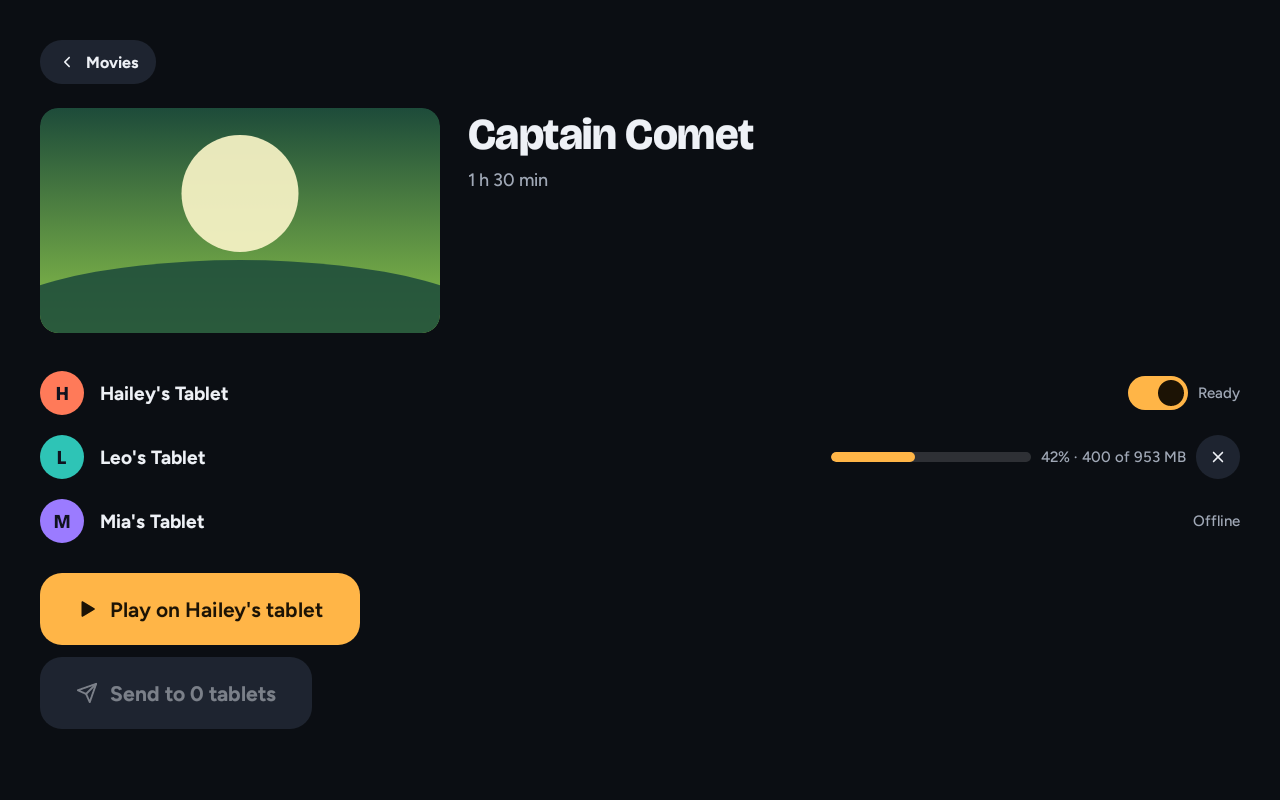
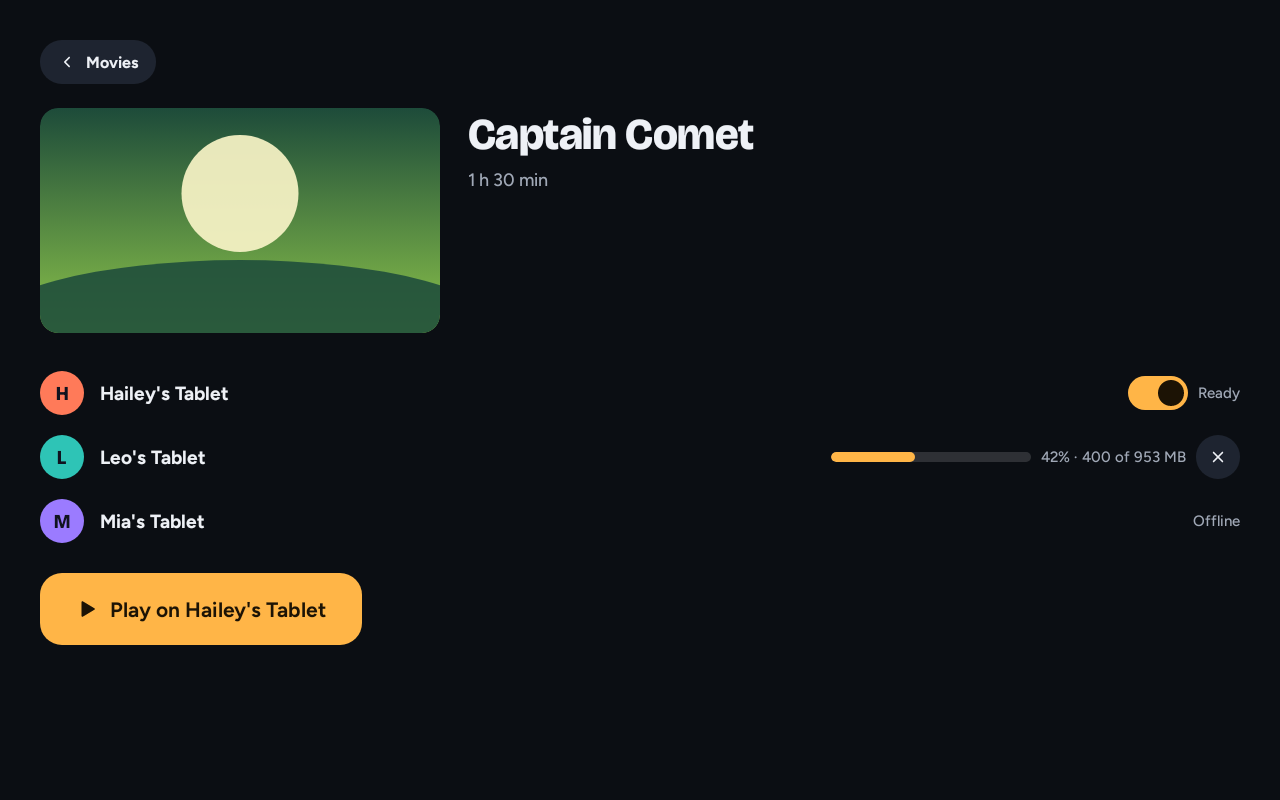
ui copy pass: drop dashes, hide dead send button, settings order, plain Jellyfin label

Changed region(s): [[0.0312, 0.8125, 0.25, 0.9375], [0.1875, 0.75, 0.25, 0.7812]]

diff --git a/app/src/main/java/com/nbaltas/nickos/ui/master/Together.kt b/app/src/main/java/com/nbaltas/nickos/ui/master/Together.kt
@@ -186,7 +186,7 @@ fun TogetherScreen(onBack: () -> Unit, onSettings: (Int) -> Unit, initialSegment
                 val label = TogetherText.chip(n.online, capable, n.node.id in scanning, true, Library.ownedBy(library, n.node.id).size, transfer.downloading(n.node.id))
                 Chip(Modifier.clickable {
                     when (label) {
-                        "Update needed" -> onSettings(4)
+                        "Update needed" -> onSettings(5)
                         "No video access" -> master.say("On ${n.node.name}, hold the avatar, enter the PIN, then tap Allow videos")
                         else -> {}
                     }
@@ -217,7 +217,7 @@ fun TogetherScreen(onBack: () -> Unit, onSettings: (Int) -> Unit, initialSegment
                 NickButton("All tablets", onBack, style = BtnStyle.GHOST, big = true)
             }
             onlineNodes.isNotEmpty() && capableOnline.isEmpty() -> CenterMessage("Update the kids' tablets", "Watch together needs the latest NickOS on each tablet. Update them from Settings, then come back.") {
-                NickButton("Open Settings", { onSettings(4) }, style = BtnStyle.PRIMARY, big = true)
+                NickButton("Open Settings", { onSettings(5) }, style = BtnStyle.PRIMARY, big = true)
             }
             else -> {
                 val visible = if (segment == 0) Library.movies(library) else null
@@ -228,7 +228,7 @@ fun TogetherScreen(onBack: () -> Unit, onSettings: (Int) -> Unit, initialSegment
                         segment == 0 && visible!!.isEmpty() && scanningCount == 0 -> CenterMessage("No movies yet", "Copy MP4 or MKV files into the Movies or Download folder on this tablet or any kid's tablet. From here you can send a movie to the other tablets and play it on all of them at once.") {
                             NickButton("Look again", { sync.rescan() }, style = BtnStyle.PRIMARY, big = true, leading = Lucide.RefreshCw)
                         }
-                        segment == 1 && openShow == null && shows.isEmpty() && scanningCount == 0 -> CenterMessage("No movies yet", "Copy MP4 or MKV files into the Movies or Download folder on this tablet or any kid's tablet. From here you can send a movie to the other tablets and play it on all of them at once.") {
+                        segment == 1 && openShow == null && shows.isEmpty() && scanningCount == 0 -> CenterMessage("No shows yet", "Copy episodes into a folder named after the show, inside Movies or Download on this tablet, or send them from another tablet.") {
                             NickButton("Look again", { sync.rescan() }, style = BtnStyle.PRIMARY, big = true, leading = Lucide.RefreshCw)
                         }
                         segment == 0 -> LibraryGrid(visible!!, thumbs, nodes, order, expected, name, transfer) { openItem = it.fid }
@@ -365,11 +365,11 @@ internal fun PickPanel(
         }
         Spacer(Modifier.height(20.dp))
         val k = selected.size
-        val playLabel = if (k == 1) "Play on ${sync.kid(selected.first())}'s tablet" else "Play on $k tablets"
+        val playLabel = if (k == 1) "Play on ${nodes.firstOrNull { it.node.id == selected.first() }?.node?.name ?: sync.kid(selected.first())}" else "Play on $k tablets"
         NickButton(playLabel, { sync.start(item.fid, item.title, item.durMs, selected) }, style = BtnStyle.PRIMARY, big = true, leading = Solid.Play, enabled = k > 0)
         Spacer(Modifier.height(12.dp))
         val j = lacking.size
-        NickButton("Send to $j tablets", { transfer.send(item.fid, lacking) }, style = BtnStyle.SECONDARY, big = true, leading = Lucide.Send, enabled = j > 0 && sendBlocked == null)
+        if (j > 0) NickButton("Send to $j tablet${if (j == 1) "" else "s"}", { transfer.send(item.fid, lacking) }, style = BtnStyle.SECONDARY, big = true, leading = Lucide.Send, enabled = sendBlocked == null)
     }
 }
 

diff --git a/app/src/main/java/com/nbaltas/nickos/ui/master/MasterApp.kt b/app/src/main/java/com/nbaltas/nickos/ui/master/MasterApp.kt
@@ -138,7 +138,7 @@ fun MasterApp() {
                 onAdd = { screen = MScreen.AddTablet },
                 onSettings = { screen = MScreen.Settings() },
                 onDrawer = { screen = MScreen.Drawer },
-                onUpdate = { screen = MScreen.Settings(4) },
+                onUpdate = { screen = MScreen.Settings(5) },
                 onCameras = { screen = MScreen.Cameras },
                 onTogether = { screen = MScreen.Together },
             )
@@ -295,7 +295,7 @@ private fun EmptyHome(onAdd: () -> Unit) {
             }
         }
         Title("No tablets linked yet", 48, Modifier.padding(top = 12.dp), lineHeight = 1.05f)
-        Muted("Set up the kid's tablet as a Node. It will show a 6-digit code — enter it here.", 21, Modifier.widthIn(max = 600.dp))
+        Muted("Set up the kid's tablet as a Node. It will show a 6-digit code. Enter it here.", 21, Modifier.widthIn(max = 600.dp))
         NickButton("Add tablet", onAdd, Modifier.padding(top = 8.dp), BtnStyle.PRIMARY, big = true, leading = Lucide.Plus)
     }
 }
@@ -355,7 +355,7 @@ private fun NodeCard(v: NodeView, poster: ((JfItem) -> String?)?, modifier: Modi
                 }
                 Column(Modifier.weight(1f), verticalArrangement = Arrangement.spacedBy(8.dp)) {
                     Title("Can't reach this tablet", 28, lineHeight = 1.1f)
-                    Muted("Check it's switched on and on the same WiFi. Reset it? Tap to unlink.", 18)
+                    Muted("Check it's switched on and on the same WiFi. Reset it? Unlink it from the Device tab.", 18)
                 }
             }
             pb != null && item != null -> Row(horizontalArrangement = Arrangement.spacedBy(22.dp)) {
@@ -465,9 +465,9 @@ fun fmtTicks(t: Long): String {
     return if (s >= 3600) "%d:%02d:%02d".format(s / 3600, (s / 60) % 60, s % 60) else "%d:%02d".format(s / 60, s % 60)
 }
 
-/** "S2 · E5 — The Lighthouse" for episodes, year for movies. */
+/** "S2 · E5 · The Lighthouse" for episodes, year for movies. */
 fun episodeLine(i: JfItem): String = when {
-    i.isEpisode && i.season != null && i.index != null -> "S${i.season} · E${i.index} — ${i.name}"
+    i.isEpisode && i.season != null && i.index != null -> "S${i.season} · E${i.index} · ${i.name}"
     i.isEpisode -> i.name
     else -> listOfNotNull(i.year?.toString(), i.rating).joinToString(" · ").ifEmpty { "Movie" }
 }

diff --git a/app/src/main/java/com/nbaltas/nickos/ui/master/Settings.kt b/app/src/main/java/com/nbaltas/nickos/ui/master/Settings.kt
@@ -86,8 +86,8 @@ import com.nbaltas.nickos.ui.theme.disp
 import com.nbaltas.nickos.ui.theme.tap
 
 private val sections = listOf<Pair<String, ImageVector>>(
-    "Linked tablets" to Lucide.Tablet, "Jellyfin (legacy)" to Lucide.Server, "Parent PIN" to Lucide.KeyRound,
-    "Theme" to Lucide.Contrast, "About" to Lucide.Info, "Cameras" to Lucide.Camera,
+    "Linked tablets" to Lucide.Tablet, "Jellyfin" to Lucide.Server, "Cameras" to Lucide.Camera,
+    "Parent PIN" to Lucide.KeyRound, "Theme" to Lucide.Contrast, "About" to Lucide.Info,
 )
 
 @Composable
@@ -118,9 +118,9 @@ fun SettingsScreen(section: Int, onSection: (Int) -> Unit, onBack: () -> Unit, o
                 when (section) {
                     0 -> TabletsSection(onAdd)
                     1 -> JellyfinSection()
-                    2 -> PinSection()
-                    3 -> ThemeSection()
-                    5 -> CamerasSection()
+                    2 -> CamerasSection()
+                    3 -> PinSection()
+                    4 -> ThemeSection()
                     else -> AboutSection()
                 }
             }
@@ -209,9 +209,10 @@ private fun JellyfinSection() {
     val nodes by app.store.nodes.collectAsState()
     var picking by remember { mutableStateOf<LinkedNode?>(null) }
     var formKey by remember { mutableStateOf(0) }
-    SectionPage("Jellyfin (legacy)", {
+    SectionPage("Jellyfin", {
         if (account != null) NickButton("Disconnect", { app.store.setJellyfin(null); formKey++ }, style = BtnStyle.DANGER)
     }) {
+        Muted("Optional. The NickOS library works without it.", 15)
         Column(Modifier.fillMaxWidth().clip(RoundedCornerShape(28.dp)).background(C.surface).padding(28.dp), verticalArrangement = Arrangement.spacedBy(22.dp)) {
             Row(verticalAlignment = Alignment.CenterVertically, horizontalArrangement = Arrangement.spacedBy(10.dp)) {
                 Dot(if (account != null) C.online else C.offline)

diff --git a/app/src/main/java/com/nbaltas/nickos/ui/master/Cameras.kt b/app/src/main/java/com/nbaltas/nickos/ui/master/Cameras.kt
@@ -222,7 +222,7 @@ fun CamerasScreen(onBack: () -> Unit, onSettings: (Int) -> Unit = {}, live: Bool
             ) {
                 BackButton(onBack)
                 Title("Cameras", 40, Modifier.weight(1f), maxLines = 1)
-                IconCircle(Lucide.Settings, { onSettings(5) }, size = if (phone) 48.dp else 60.dp)
+                IconCircle(Lucide.Settings, { onSettings(2) }, size = if (phone) 48.dp else 60.dp)
                 if (roomy) Segmented(listOf("Auto" to null, "Grid" to null, "Spotlight" to null), override, { override = it })
                 // Phone width: "Add camera" leaves the title no room.
                 NickButton(if (phone) "Add" else "Add camera", { editing = Camera(Store.randomHex(6), "", "rtsp://") }, style = BtnStyle.PRIMARY, leading = Lucide.Plus)
@@ -307,7 +307,7 @@ fun CamerasScreen(onBack: () -> Unit, onSettings: (Int) -> Unit = {}, live: Bool
                                             onTap = onTap,
                                             onMaximize = { full = id },
                                             onRotate = { store.setCamRotation(src.node.id, (rotations[src.node.id] ?: 0) + 90) },
-                                            onAction = { if (t?.display == TileDisplay.UPDATE_NEEDED) onSettings(4) else ctl.arm(src.node.id) },
+                                            onAction = { if (t?.display == TileDisplay.UPDATE_NEEDED) onSettings(5) else ctl.arm(src.node.id) },
                                         )
                                     }
                                     // While this camera is open full screen its tile gives up its player: one

diff --git a/app/src/main/java/com/nbaltas/nickos/ui/master/Control.kt b/app/src/main/java/com/nbaltas/nickos/ui/master/Control.kt
@@ -218,7 +218,7 @@ private fun NowPlaying(v: NodeView) {
                         Artwork(jf?.landscape(n, 300), "", Modifier.size(128.dp, 72.dp), radius = 12.dp, showTitle = false)
                         Column(verticalArrangement = Arrangement.spacedBy(4.dp)) {
                             EyebrowText("Up next")
-                            Text("E${n.index ?: ""} — ${n.name}", style = body(18.sp, 700), color = C.text, maxLines = 2)
+                            Text("E${n.index ?: ""} · ${n.name}", style = body(18.sp, 700), color = C.text, maxLines = 2)
                         }
                     }
                 }
@@ -531,7 +531,7 @@ private fun DeviceTab(v: NodeView, onUnlinked: () -> Unit) {
                                 Modifier.weight(1f).height(56.dp).clip(RoundedCornerShape(28.dp)).background(if (sel) C.accent else C.surface2)
                                     .clickable { chosen = min; m.bedtime(v.node.id, min) },
                                 contentAlignment = Alignment.Center,
-                            ) { Text("${min}m", style = body(18.sp, 600), color = if (sel) C.onAccent else C.text) }
+                            ) { Text("$min min", style = body(18.sp, 600), color = if (sel) C.onAccent else C.text) }
                         }
                     }
                     if (at > 0) {

diff --git a/app/src/test/java/com/nbaltas/nickos/DesignScreensTest.kt b/app/src/test/java/com/nbaltas/nickos/DesignScreensTest.kt
@@ -198,10 +198,10 @@ class DesignScreensTest {
     @Test fun controlDevice() = shot("Control-Device") { ControlScreen("aaaaaaaaaaaa", TAB_DEVICE, {}, {}, {}) }
     @Test fun settingsTablets() = shot("Settings-Tablets") { SettingsScreen(0, {}, {}, {}) }
     @Test fun settingsJellyfin() = shot("Settings-Jellyfin") { SettingsScreen(1, {}, {}, {}) }
-    @Test fun settingsPin() = shot("Settings-PIN") { SettingsScreen(2, {}, {}, {}) }
-    @Test fun settingsTheme() = shot("Settings-Theme") { SettingsScreen(3, {}, {}, {}) }
-    @Test fun settingsAbout() = shot("Settings-About") { SettingsScreen(4, {}, {}, {}) }
-    @Test fun settingsCameras() = shot("Settings-Cameras") { SettingsScreen(5, {}, {}, {}) }
+    @Test fun settingsPin() = shot("Settings-PIN") { SettingsScreen(3, {}, {}, {}) }
+    @Test fun settingsTheme() = shot("Settings-Theme") { SettingsScreen(4, {}, {}, {}) }
+    @Test fun settingsAbout() = shot("Settings-About") { SettingsScreen(5, {}, {}, {}) }
+    @Test fun settingsCameras() = shot("Settings-Cameras") { SettingsScreen(2, {}, {}, {}) }
 
     // ---- cameras (section 11 of the tablet-cameras brief) ----
     private val CH = "aaaaaaaaaaaa"

diff --git a/app/src/main/java/com/nbaltas/nickos/ui/master/Watch.kt b/app/src/main/java/com/nbaltas/nickos/ui/master/Watch.kt
@@ -262,7 +262,7 @@ private fun LandscapeCard(item: JfItem, jf: Jellyfin, nextUp: Boolean, onClick: 
         Column(verticalArrangement = Arrangement.spacedBy(2.dp)) {
             Text(item.displayTitle, style = body(18.sp, 700), color = C.text, maxLines = 1, overflow = TextOverflow.Ellipsis)
             val sub = when {
-                nextUp && item.isEpisode -> "${item.epCode} — ${item.name}"
+                nextUp && item.isEpisode -> "${item.epCode} · ${item.name}"
                 item.isEpisode -> "${item.epCode} · ${minutesText(item.leftMin)} left"
                 item.inProgress -> "${minutesText(item.leftMin)} left"
                 else -> item.year?.toString() ?: ""

diff --git a/app/src/test/java/com/nbaltas/nickos/sync/NoDashesTest.kt b/app/src/test/java/com/nbaltas/nickos/sync/NoDashesTest.kt
@@ -78,6 +78,14 @@ class NoDashesTest {
         File(moduleDir, "ui/master/Together.kt"),
         File(moduleDir, "ui/master/TabletLibrary.kt"),
         File(moduleDir, "ui/node/TogetherPlayer.kt"),
+        // UI copy (brief A).
+        File(moduleDir, "ui/master/MasterApp.kt"),
+        File(moduleDir, "ui/master/Control.kt"),
+        File(moduleDir, "ui/master/Watch.kt"),
+        File(moduleDir, "ui/theme/Components.kt"),
+        File(moduleDir, "ui/node/NodeUi.kt"),
+        File(moduleDir, "ui/master/Settings.kt"),
+        File(moduleDir, "ui/setup/Setup.kt"),
         File("../SETUP.md"),
     )
 

diff --git a/app/src/main/java/com/nbaltas/nickos/ui/theme/Components.kt b/app/src/main/java/com/nbaltas/nickos/ui/theme/Components.kt
@@ -236,7 +236,7 @@ fun Battery(pct: Int?, charging: Boolean, textSize: Int, iconSize: Dp = 28.dp, d
     }
     Row(verticalAlignment = Alignment.CenterVertically, horizontalArrangement = Arrangement.spacedBy(8.dp)) {
         Icon(batteryIcon(pct ?: 100, charging), null, tint = col, modifier = Modifier.size(iconSize))
-        Text(if (pct == null) "–" else "$pct%", style = disp(textSize.sp, 800, 1f), color = col, maxLines = 1, softWrap = false)
+        if (pct != null) Text("$pct%", style = disp(textSize.sp, 800, 1f), color = col, maxLines = 1, softWrap = false)
     }
 }
 

diff --git a/app/src/main/java/com/nbaltas/nickos/ui/master/TabletLibrary.kt b/app/src/main/java/com/nbaltas/nickos/ui/master/TabletLibrary.kt
@@ -119,7 +119,7 @@ fun TabletLibrary(nodeId: String, v: NodeView, onPlayed: () -> Unit, onSettings:
         }
         if (jfAccount != null) {
             Spacer(Modifier.height(12.dp))
-            NickButton("Jellyfin (legacy)", { legacy = true }, style = BtnStyle.GHOST, leading = Lucide.Server)
+            NickButton("Jellyfin library", { legacy = true }, style = BtnStyle.GHOST, leading = Lucide.Server)
         }
     }
 }
